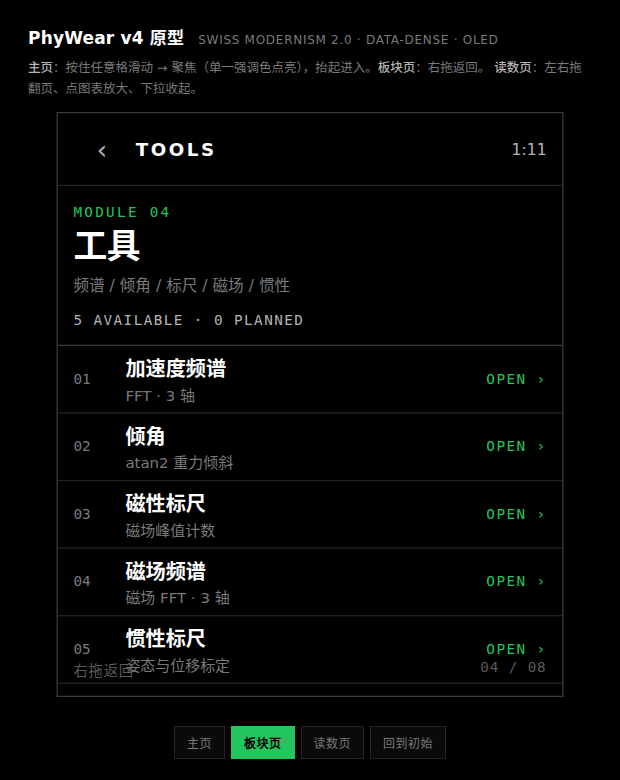
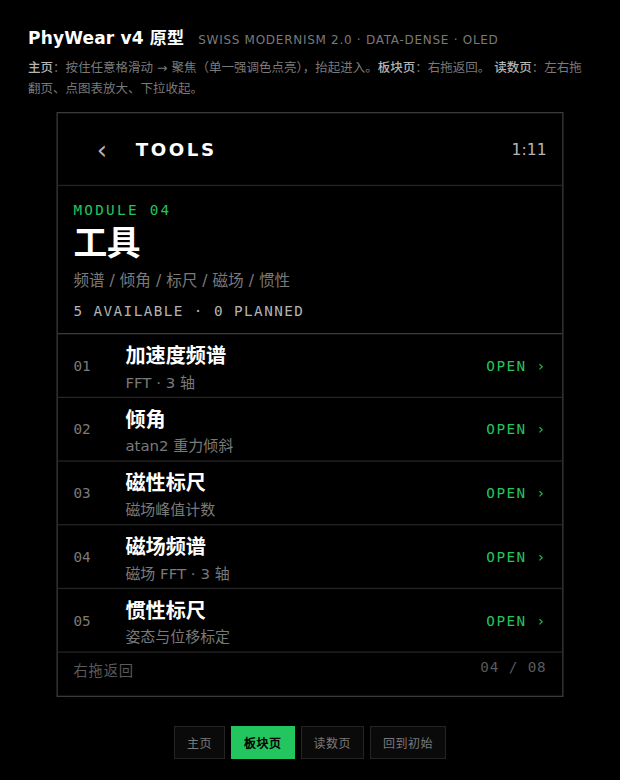
design(v4): 板块页行高压到 49px，5 行 + 页脚不再重叠（静态图已复核）

diff --git a/docs/design/phywear-v4-prototype.html b/docs/design/phywear-v4-prototype.html
@@ -103,12 +103,12 @@
   .segs i.on{background:var(--accent)}
 
   /* 板块页：表格式列表 */
-  .head{padding:14px 12px 12px;border-bottom:1px solid var(--rule-strong)}
+  .head{padding:12px 12px 10px;border-bottom:1px solid var(--rule-strong)}
   .head .no{font-size:11px;color:var(--accent);letter-spacing:.16em}
   .head .nm{font-size:26px;font-weight:700;letter-spacing:-.01em;margin-top:6px;line-height:1.05}
-  .head .ds{font-size:12px;color:var(--fg-3);margin-top:8px;line-height:1.55}
-  .head .cnt{font-size:11px;color:var(--fg-2);letter-spacing:.1em;margin-top:10px}
-  .row{position:relative;display:flex;align-items:center;gap:10px;padding:0 12px;height:52px;
+  .head .ds{font-size:12px;color:var(--fg-3);margin-top:6px;line-height:1.5}
+  .head .cnt{font-size:11px;color:var(--fg-2);letter-spacing:.1em;margin-top:8px}
+  .row{position:relative;display:flex;align-items:center;gap:10px;padding:0 12px;height:49px;
        border-bottom:1px solid var(--rule);transition:transform .12s,background .12s}
   .row:active{transform:translateY(1px);background:var(--surface)}   /* §4.5 触感反馈 */
   .row .no{font-size:11px;color:var(--fg-3);width:18px;flex:none}
